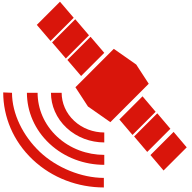
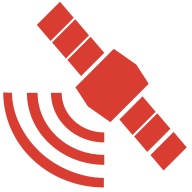
changed color

diff --git a/src/index.html b/src/index.html
@@ -48,12 +48,12 @@
     <div class='textelement' id='text'>
         <button type="button" id="fetch_location">Fetch Location</button>
         <br />
-        <label for='satpos_list' id='satpos_label'>Sat:</label>
+        <label for='satpos_list' id='satpos_list_label'>Sat:</label>
 <select class='variable_text input_text' name='satpos_list' id="satpos_list">
   <option value='19.2'>Astra 1KR/1L/1M/1N</option>
   <option value='13.0'>Hot Bird 13B/13C/13E</option>
   <option value='other'>Other:</option>
-</select> <input class='variable_text input_text' type='text' id='satpos_text'
+</select> <label for='satpos_text' id='satpos_text_label'>Pos:</label><input class='variable_text input_text' type='text' id='satpos_text'
         name='satpos_text' placeholder='Orbital Position' />°E
 
         <br /> Latitude: <span class='variable_text' id="latitude"></span>

diff --git a/src/style.css b/src/style.css
@@ -107,7 +107,7 @@ body {
 	 font-family: sans-serif;
 }
 button {
-  background-color: #ea4235;
+  background-color: #d93d31;
   border: none;
   color: #ffffff;
   text-decoration: none;
@@ -139,7 +139,7 @@ button {
 }
 .pointer {
 	fill:none;
-	stroke: #ea4235;
+	stroke: #d93d31;
 	stroke-width:10;
 	stroke-linecap:butt;
 	stroke-linejoin:miter;
@@ -191,13 +191,13 @@ a:visited {
 }
 
 a:hover {
-  color: #ea4235;
+  color: #d93d31;
   background-color: transparent;
   text-decoration: underline;
 }
 
 a:active {
-  color: #ea4235;
+  color: #d93d31;
   background-color: transparent;
   text-decoration: underline;
 }

diff --git a/src/service_worker.js b/src/service_worker.js
@@ -8,7 +8,6 @@ const CACHE_URLS = [
   '/style.css',
   '/script.js',
   '/icon.svg',
-  '/icon_512.png',
   '/icon_apple.png',
   '/icon_maskable.png',
   '/manifest.json'
